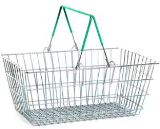
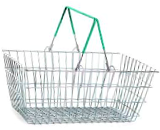
:hammer: tweaks, do not prevent default

Changed region(s): [[0.0, 0.031, 1.0, 0.9922], [0.375, 0.3721, 0.4062, 0.4031]]

diff --git a/src/content/js/elf-jump.js b/src/content/js/elf-jump.js
@@ -11,14 +11,14 @@
     best = 0,
     font = 'Verdana',
     platforms = 6, // to keep in play
-    interval = 150, // to keep in play
+    interval = 150,
     maxJump = 250,
     timeout = 2000,
     gravity = 0.11, // probably don't change these
     // traction = 0.9,
     boost = 10,
     maxVX = 1.3
-  } = config
+  } = config || {}
 
   const canvas = document.getElementById('canvas')
   const ctx = canvas.getContext('2d')
@@ -33,19 +33,15 @@
   const fart = audio('fart')
 
   const player = img('elf', 0, 0, 0, boost)
-  const drawRelativeTo = ctx => player => obj => {
-    const x = obj.cx // - player.cx + (ctx.canvas.width - obj.width) / 2 + obj.vx
-    const y = obj.cy // - player.cy + (ctx.canvas.height - obj.height) + obj.vy
-    ctx.drawImage(obj, x, y)
-    if (process.env.NODE_ENV === 'development') {
-      const info = foo => Math.round(foo.cx) + ',' + Math.round(foo.cy) /* + ' ' + foo.width + 'x' + foo.height */ + ' 🚀' + foo.vy.toFixed(2)
-      ctx.strokeStyle = '#0f0'
-      ctx.strokeRect(x, y, obj.width, obj.height)
-      ctx.font = '10px ' + font
-      ctx.fillText(info(obj), x, y + obj.height + 10)
-    }
-  }
+  const drawRelativeTo = require('./drawRelativeTo')
   const checkCollision = require('./checkCollision')
+
+  const gameOver = () => {
+    falling.play()
+    playing = 0
+    config.best = best
+    localStorage.setItem(process.env.npm_package_name, JSON.stringify(config))
+  }
 
   let powerUpTimeout // eslint-disable-line
 
@@ -53,28 +49,27 @@
   let playing = 1
 
   const move = (event, key, x) => {
-    event.preventDefault()
-    if (!playing) return window.location.reload() // reload the page
+    // event.preventDefault()
     key = event.key
     x = event.clientX
     if (/right/i.test(key) || (x > canvas.width / 2)) {
+      if (!playing) return window.location.reload() // reload the page
       player.vx = maxVX
     }
     if (/left/i.test(key) || (x < canvas.width / 2)) {
+      if (!playing) return window.location.reload() // reload the page
       player.vx = -maxVX
     }
-    if (/q/i.test(key)) {
-      playing = 0
-    }
+    if (/q/i.test(key)) gameOver()
   }
 
   document.addEventListener('keydown', move)
   document.addEventListener('click', move)
 
-  const random = n => Math.round(Math.random() * n)
+  const random = n => Math.ceil(Math.random() * n)
 
   const platform = [
-    img('cane1', 0, 300),
+    img('cane3', 0, 300),
     img('cane2', 0, -300)
   ]
   const powerUp = [
@@ -141,7 +136,7 @@
       const x = platform[platform.length - 1].cx + random(maxJump * 2) - maxJump
       console.log({ x, y })
 
-      platform.push(img('cane' + random(3)), x, y)
+      platform.push(img('cane' + random(4), x, y))
       highestPlatform = y
       score++
       if (score > best) best = score
@@ -155,12 +150,7 @@
       }
     }
 
-    if (player.cy > lowestPlatform) {
-      falling.play()
-      playing = 0
-      config.best = best
-      localStorage.setItem(process.env.npm_package_name, JSON.stringify(config))
-    }
+    if (player.cy > lowestPlatform) gameOver()
 
     ctx.font = '16px ' + font
     ctx.fillText('Jump Jackie!', 10, 20)

diff --git a/src/content/js/basket.js b/src/content/js/basket.js
@@ -48,10 +48,10 @@
     key = event.key
     x = event.clientX
     if (/right/i.test(key) || (x > canvas.width / 2)) {
-      player.vx = Math.max(1, player.vx + 1)
+      player.vx = Math.max(2, player.vx + 1)
     }
     if (/left/i.test(key) || (x < canvas.width / 2)) {
-      player.vx = Math.min(-1, player.vx - 1)
+      player.vx = Math.min(-2, player.vx - 1)
     }
     if (/q/i.test(key)) {
       playing = 0
@@ -71,16 +71,18 @@
   function animate (timestamp) {
     if (playing) requestAnimationFrame(animate)
 
-    ctx.fillStyle = '#f6f6f6'
+    ctx.fillStyle = '#fff'
     ctx.fillRect(0, 0, canvas.width, canvas.height)
     ctx.fillStyle = '#000'
 
-    if (player.cx > canvas.width) {
-      player.cx = canvas.width
+    const right = canvas.width - player.width / 2
+    if (player.cx > right) {
+      player.cx = right
       player.vx = 0
     }
-    if (player.cx < 0) {
-      player.cx = 0
+    const left = -player.width / 2
+    if (player.cx < left) {
+      player.cx = left
       player.vx = 0
     }
 
@@ -92,18 +94,13 @@
         item.splice(i, 1)
         if (score++ > best) best = score
         bing.play()
-        // const x = random(canvas.width - 100) + 50
-        // const y = 0
-        // const product = products[random(products.length)]
-        // console.log({ x, y, product })
       } else {
         drawRelativeTo(ctx)(player)(item[i])
       }
     }
 
     player.cx += player.vx
-
-    // player.src = 'img/basket' + (player.vx > 1 ? '1' : '2') + '.png'
+    player.src = 'img/basket-' + (player.vx > 1 ? 'right' : 'left') + '.png'
 
     drawRelativeTo(ctx)(player)(player)
 

diff --git a/src/content/js/drawRelativeTo.js b/src/content/js/drawRelativeTo.js
@@ -1,14 +1,18 @@
 module.exports = ctx => player => obj => {
   const x = obj.cx - player.cx + (ctx.canvas.width - obj.width) / 2 + obj.vx
   const y = obj.cy - player.cy + (ctx.canvas.height - obj.height) / 2 + obj.vy
-  ctx.drawImage(obj, x, y)
-  if (process.env.NODE_ENV === 'development') {
-    const info = foo => Math.round(foo.cx) + ',' + Math.round(foo.cy) /* + ' ' + foo.width + 'x' + foo.height */ + ' 🚀' + foo.vy.toFixed(2)
-    // const debug = foo => foo.src.split('/').pop() + ' ' + info(foo)
+  try {
+    ctx.drawImage(obj, x, y)
+    if (process.env.NODE_ENV === 'development') {
+      const info = foo => Math.round(foo.cx) + ',' + Math.round(foo.cy) /* + ' ' + foo.width + 'x' + foo.height */ + ' 🚀' + foo.vy.toFixed(2)
+      // const debug = foo => foo.src.split('/').pop() + ' ' + info(foo)
 
-    // ctx.strokeStyle = '#0f0'
-    // ctx.strokeRect(x, y, obj.width, obj.height)
-    ctx.font = '10px ' // + font
-    ctx.fillText(info(obj), x, y + obj.height + 10)
+      // ctx.strokeStyle = '#0f0'
+      // ctx.strokeRect(x, y, obj.width, obj.height)
+      ctx.font = '10px ' // + font
+      ctx.fillText(info(obj), x, y + obj.height + 10)
+    }
+  } catch (e) {
+    console.log('hmm could not draw', { obj, x, y }, e)
   }
 }

diff --git a/src/content/js/img.js b/src/content/js/img.js
@@ -2,7 +2,9 @@
 
 module.exports = (file, x, y, vx, vy, elem) => {
   elem = new Image()
+  console.log(file)
   elem.src = 'img/' + file + '.png'
+  elem.type = file
   elem.cx = x
   elem.cy = y
   elem.vx = vx || 0
